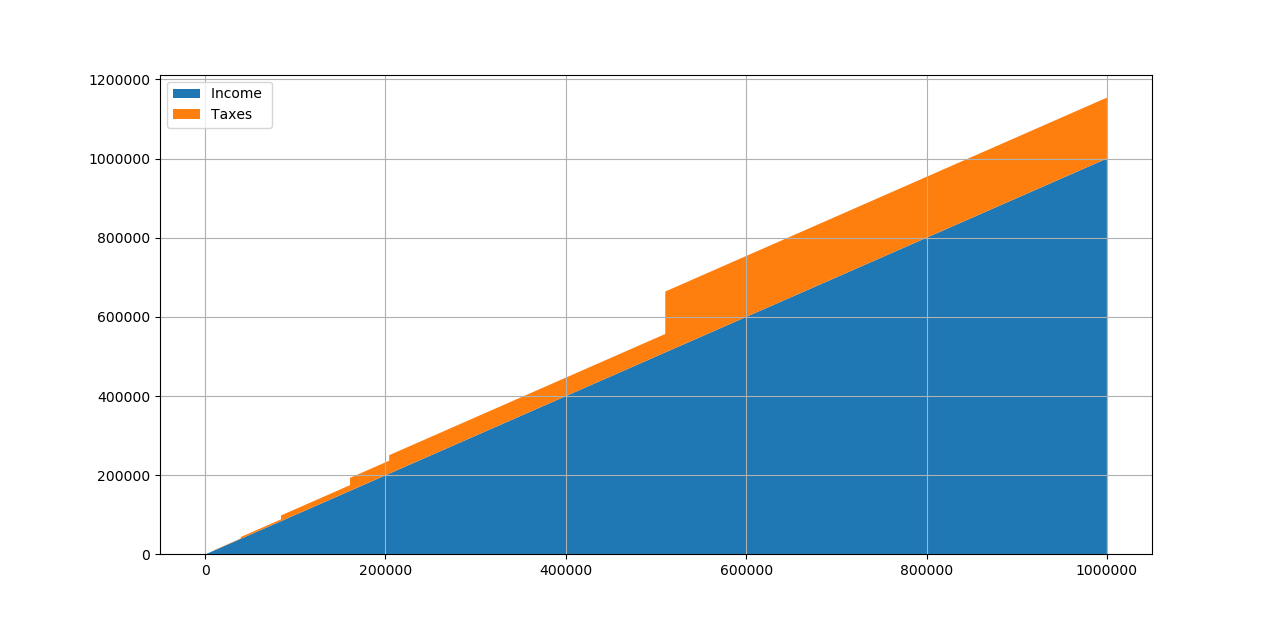
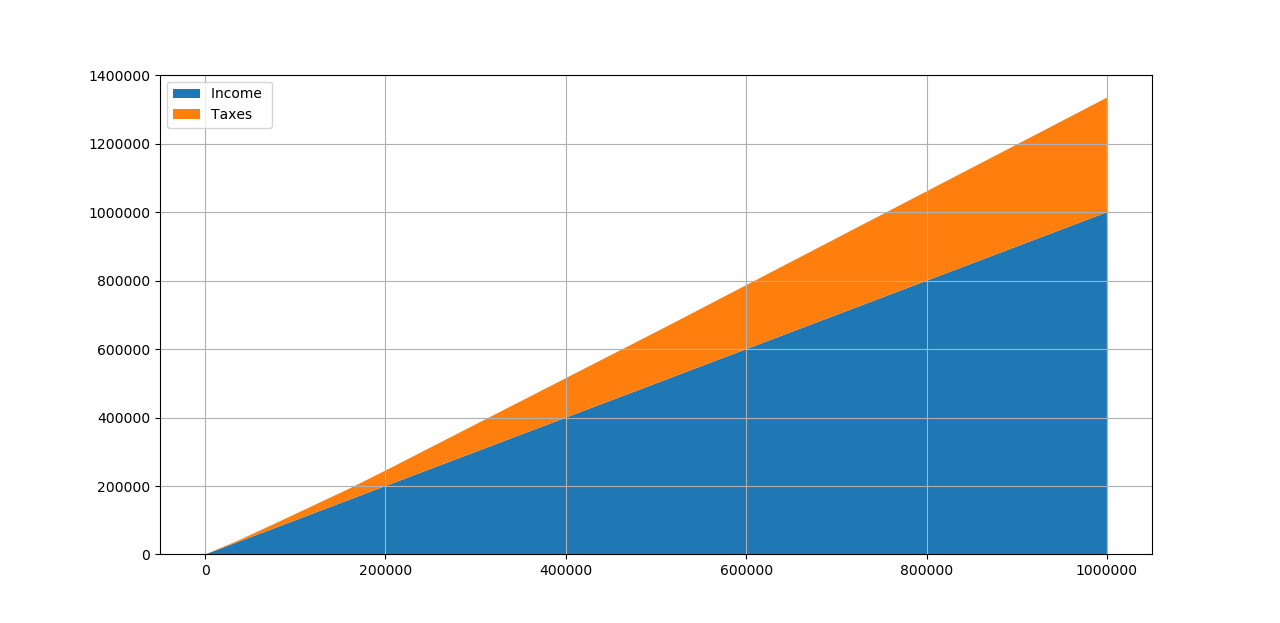
Graph fixes
Fixed the graphing equation, smoothing it out. Still only Federal taxes

diff --git a/Resources/Projects/taxes.py b/Resources/Projects/taxes.py
@@ -14,19 +14,19 @@ while y < 1000000:
     x.append(y)
     income.append(y)
     if y >= 0 and y<=9700:
-        taxes.append(0)
+        taxes.append(y*.1)
     if y > 9700 and y<=39475:
-        taxes.append(970)
+        taxes.append(970 + ((y-9700)*.12))
     if y > 39475 and y<=84200:
-        taxes.append(4543.00)
+        taxes.append(4543.00+((y-39475)*.22))
     if y > 84200 and y<=160725:
-        taxes.append(14382.50)
+        taxes.append(14382.50+((y-84200)*.24))
     if y > 160725 and y<=204100:
-        taxes.append(32748.50)
+        taxes.append(32748.50+((y-160725)*.32))
     if y > 204100 and y<=510300:
-        taxes.append(46628.50)
+        taxes.append(46628.50+((y-204100)*.35))
     if y > 510300:
-        taxes.append(153798.50)
+        taxes.append(153798.50+((y-510300)*.37))
 
     y=y+1
 
